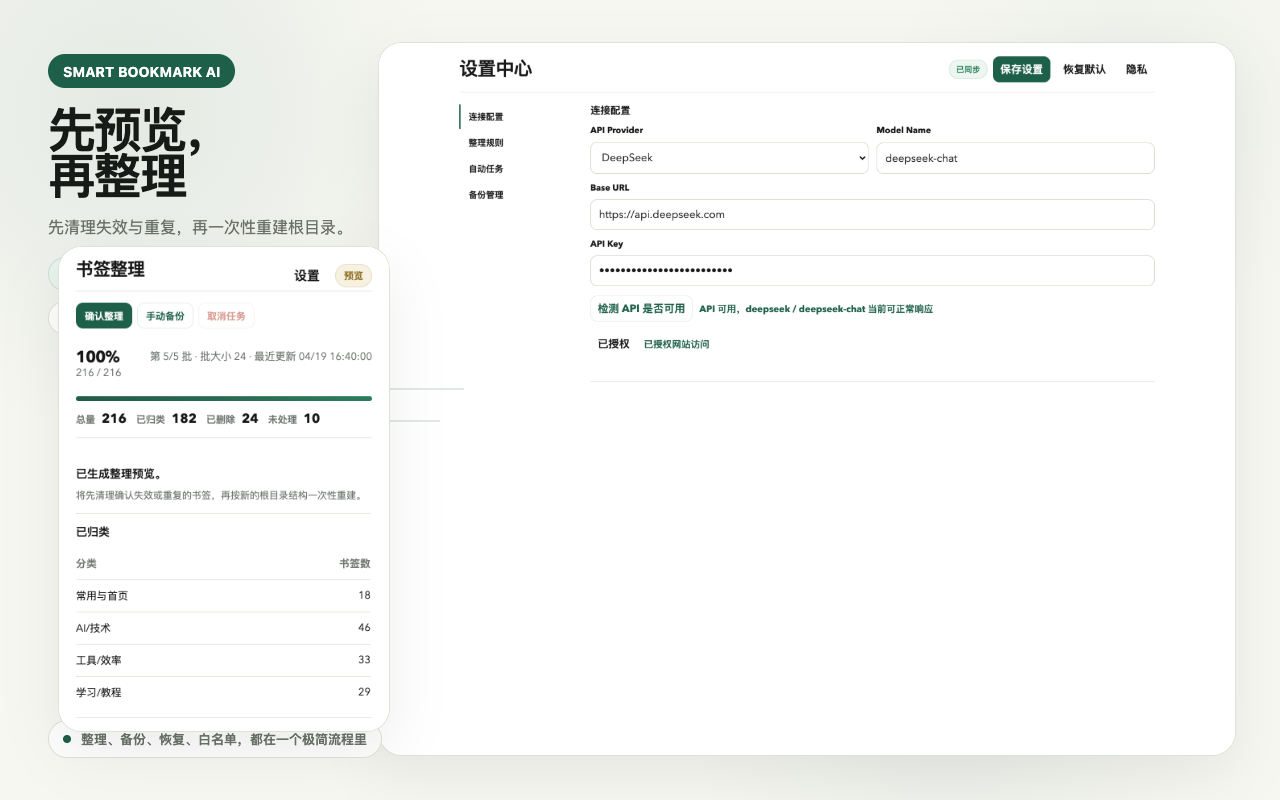
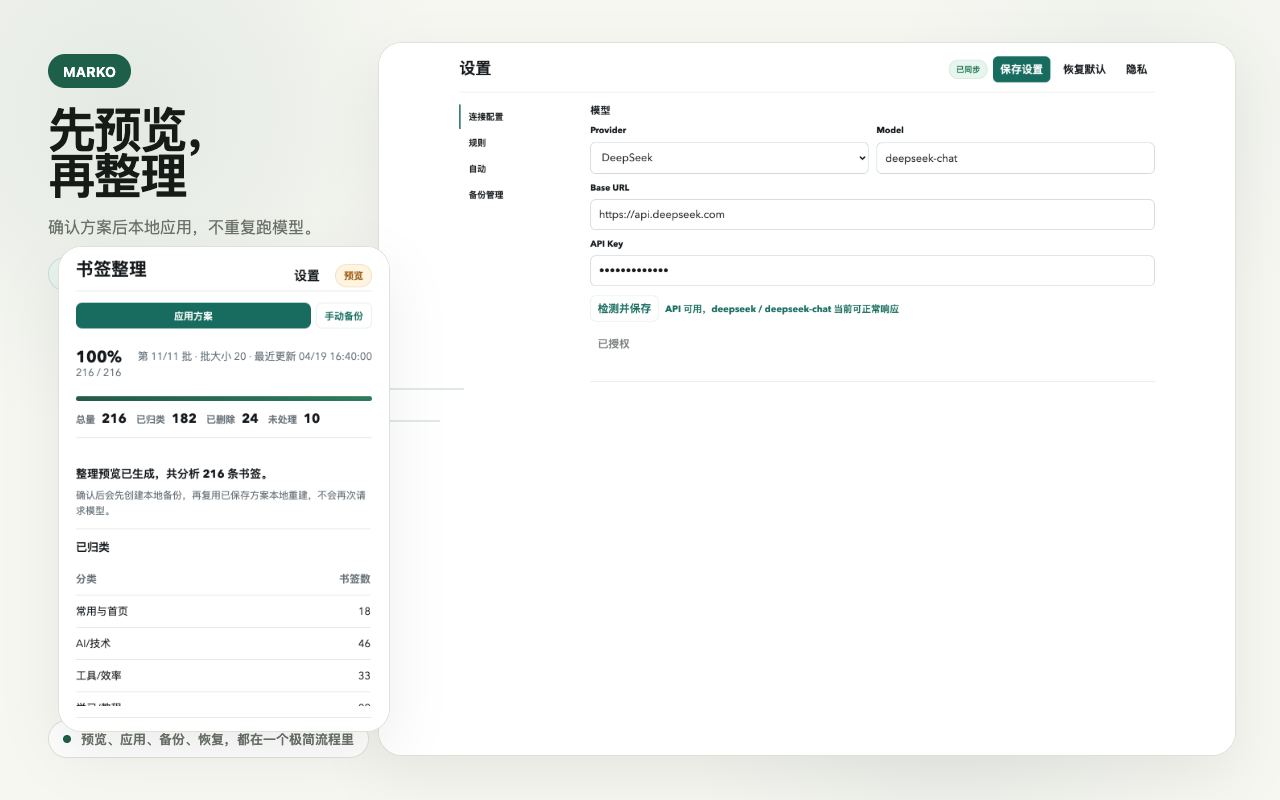
Refresh store screenshots

diff --git a/tests/run-tests.js b/tests/run-tests.js
@@ -8,6 +8,15 @@ const CacheUtils = require("../cache-utils.js");
 
 const ROOT_DIR = path.resolve(__dirname, "..");
 
+function readPngDimensions(filePath) {
+  const buffer = fs.readFileSync(filePath);
+  assert.equal(buffer.toString("ascii", 1, 4), "PNG", `${filePath} is not a PNG`);
+  return {
+    width: buffer.readUInt32BE(16),
+    height: buffer.readUInt32BE(20)
+  };
+}
+
 function testJsonUtils() {
   assert.deepEqual(JsonUtils.extractJsonArray('```json\n["A", "B"]\n```'), ["A", "B"]);
   assert.deepEqual(
@@ -121,6 +130,29 @@ function testStaticExtensionAssets() {
 
   for (const localePath of ["_locales/en/messages.json", "_locales/zh_CN/messages.json"]) {
     JSON.parse(fs.readFileSync(path.join(ROOT_DIR, localePath), "utf8"));
+  }
+
+  const screenshotPaths = [
+    "docs/screenshots/popup-store.png",
+    "docs/screenshots/popup-apply-store.png",
+    "docs/screenshots/options-connection-store.png",
+    "docs/screenshots/options-organization-store.png",
+    "docs/screenshots/options-backup-store.png"
+  ];
+  for (const screenshotPath of screenshotPaths) {
+    const dimensions = readPngDimensions(path.join(ROOT_DIR, screenshotPath));
+    assert.ok(dimensions.width >= 800, `${screenshotPath} is too narrow`);
+    assert.ok(dimensions.height >= 600, `${screenshotPath} is too short`);
+  }
+
+  const exactAssetDimensions = {
+    "webstore/assets/chrome-web-store-screenshot-1280x800.png": [1280, 800],
+    "webstore/assets/chrome-web-store-small-promo-440x280.png": [440, 280],
+    "webstore/assets/chrome-web-store-marquee-1400x560.png": [1400, 560]
+  };
+  for (const [assetPath, [width, height]] of Object.entries(exactAssetDimensions)) {
+    const dimensions = readPngDimensions(path.join(ROOT_DIR, assetPath));
+    assert.deepEqual(dimensions, { width, height }, `${assetPath} has the wrong size`);
   }
 
   for (const file of ["popup.html", "options.html", "privacy.html"]) {
@@ -247,6 +279,8 @@ function testReleaseMaterialsCurrent() {
   assert.match(storeListing, /without calling the model again/);
   assert.match(storeListing, /safer runtime batch size/);
   assert.match(storeListing, /inline confirmations and validation feedback/);
+  assert.match(storeListing, /Popup inline apply confirmation/);
+  assert.match(storeListing, /Backup management with inline restore confirmation/);
 
   const reviewNotes = fs.readFileSync(path.join(ROOT_DIR, "webstore/REVIEW_NOTES.md"), "utf8");
   assert.match(reviewNotes, /复用已保存方案/);

diff --git a/README.md b/README.md
@@ -62,6 +62,21 @@ Marko helps turn a crowded Chrome bookmark bar into a smaller, clearer, easier-t
   </tr>
 </table>
 
+<table>
+  <tr>
+    <td width="50%">
+      <img src="docs/screenshots/popup-apply-store.png" alt="Marko inline apply confirmation" width="100%" />
+    </td>
+    <td width="50%">
+      <img src="docs/screenshots/options-organization-store.png" alt="Marko organization rules and speed mode" width="100%" />
+    </td>
+  </tr>
+  <tr>
+    <td><strong>Apply</strong><br />Confirm the saved preview inline, then back up and rebuild locally without a second model run.</td>
+    <td><strong>Rules</strong><br />Tune speed mode, batch size, whitelist websites, and advanced rules without crowding setup.</td>
+  </tr>
+</table>
+
 ## Safe Organizing Flow
 
 <p align="center">

diff --git a/README.zh-CN.md b/README.zh-CN.md
@@ -62,6 +62,21 @@ Marko 用来把拥挤的 Chrome 书签栏整理成更少、更清楚、更容易
   </tr>
 </table>
 
+<table>
+  <tr>
+    <td width="50%">
+      <img src="docs/screenshots/popup-apply-store.png" alt="Marko 行内应用确认" width="100%" />
+    </td>
+    <td width="50%">
+      <img src="docs/screenshots/options-organization-store.png" alt="Marko 整理规则和速度模式" width="100%" />
+    </td>
+  </tr>
+  <tr>
+    <td><strong>应用</strong><br />在弹窗内确认已保存的预览方案，先备份，再本地重建，不会再次跑模型。</td>
+    <td><strong>规则</strong><br />速度模式、批大小、白名单网站和高级规则集中管理，不挤占连接配置。</td>
+  </tr>
+</table>
+
 ## 安全整理流程
 
 <p align="center">

diff --git a/webstore/STORE_LISTING.md b/webstore/STORE_LISTING.md
@@ -78,8 +78,8 @@ Privacy summary:
 
 ## Visual Assets Checklist
 - At least 5 screenshots:
-  1. Popup home
-  2. Settings - Connection
-  3. Settings - Organization rules with Speed mode
-  4. Settings - Backup management
-  5. Rebuilt bookmark root result
+  1. Popup preview
+  2. Popup inline apply confirmation
+  3. Settings - Connection
+  4. Settings - Organization rules with Speed mode
+  5. Settings - Backup management with inline restore confirmation
